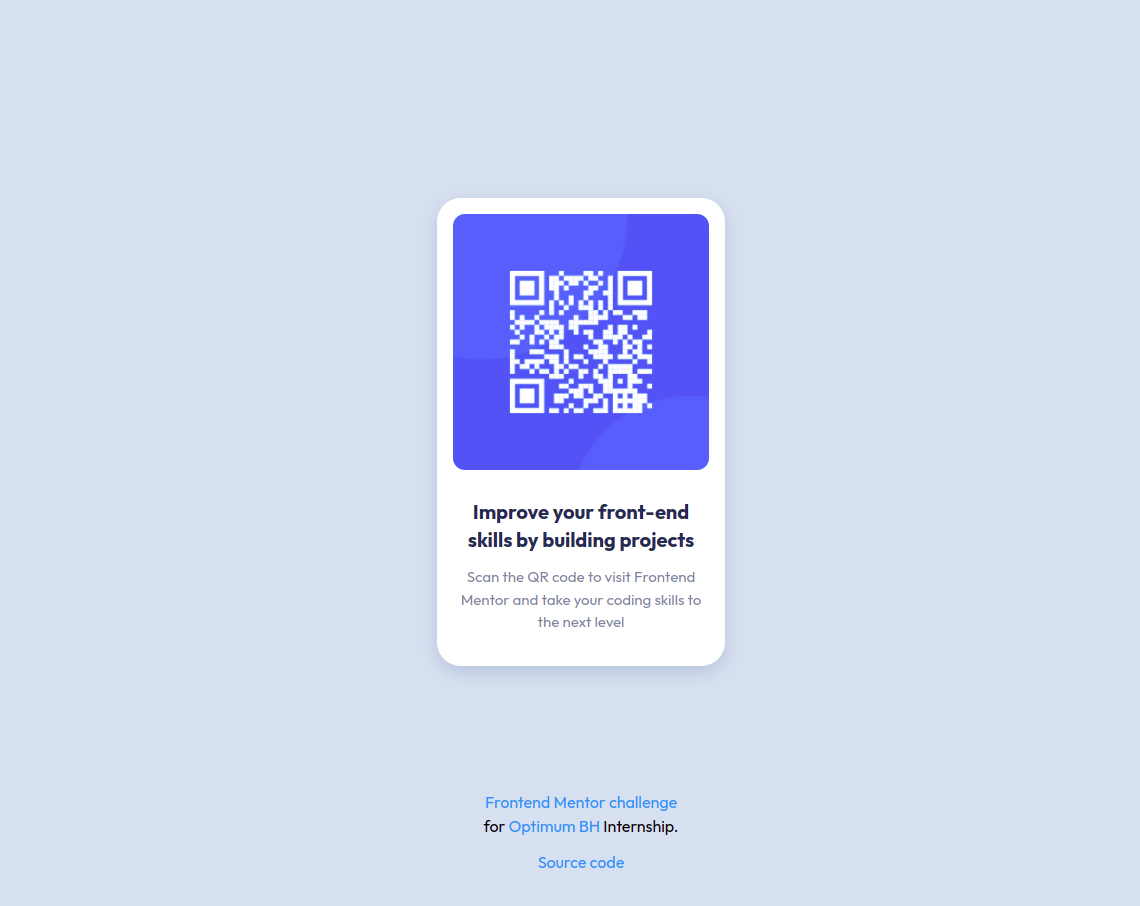
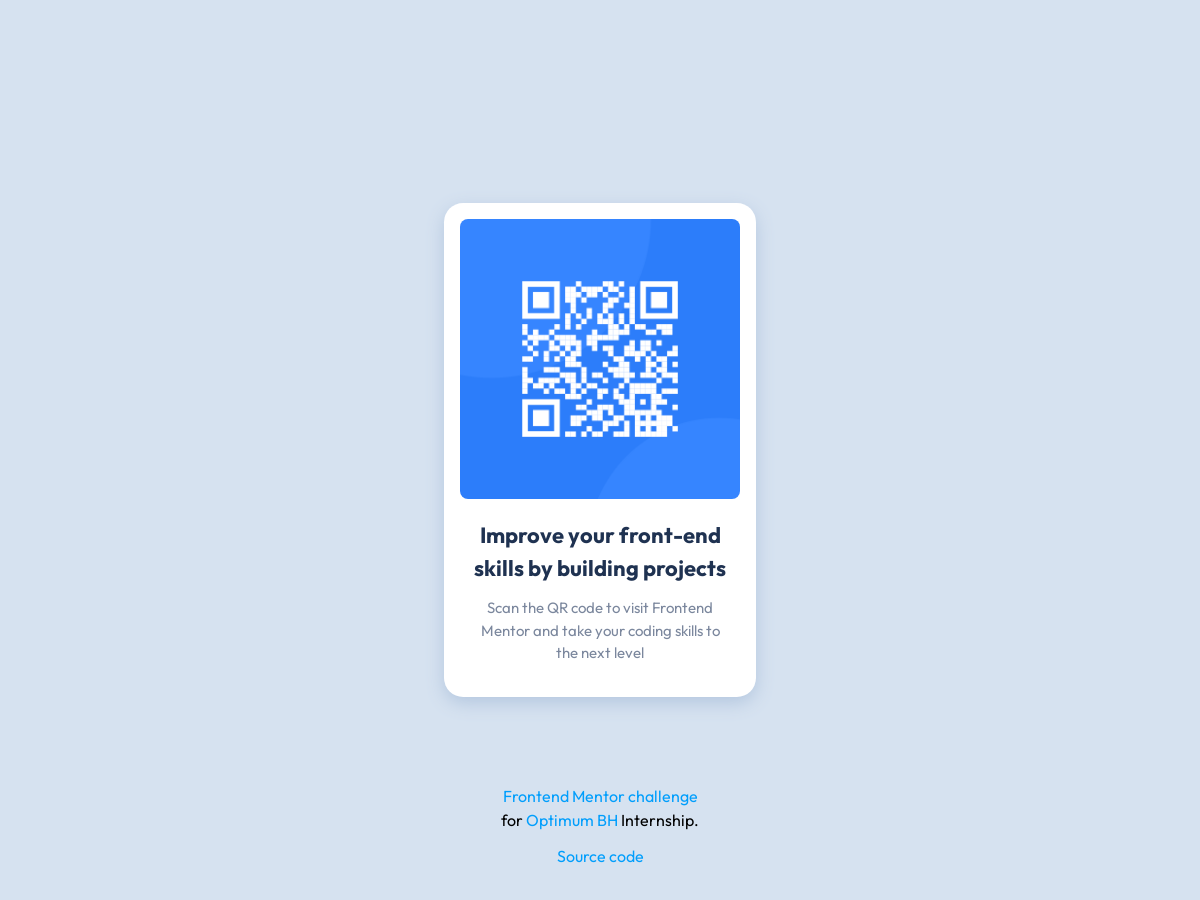
Minor css improvements

Changed region(s): [[0.3684, 0.2178, 0.6447, 0.7778], [0.3991, 0.8711, 0.5833, 0.9644]]

diff --git a/challenges/qr_code_component/index.html b/challenges/qr_code_component/index.html
@@ -41,11 +41,13 @@
       class="bg-preview-bg flex h-[100vh] w-full flex-col items-center justify-center text-center"
     >
       <div class="qr-card">
-        <div class="mobile:w-64 relative w-72 overflow-hidden rounded-xl">
+        <div class="relative w-[280px] overflow-hidden rounded-lg">
           <img src="./images/image-qr-code.png" alt="QR Code" />
         </div>
         <div class="mt-4 w-64">
-          <h2 class="text-title-text my-3 px-1 text-center text-xl font-bold">
+          <h2
+            class="text-title-text mt-1 mb-3 px-0 text-center text-[22px] font-bold"
+          >
             Improve your front-end skills by building projects
           </h2>
 
@@ -56,7 +58,7 @@
         </div>
       </div>
 
-      <footer class="absolute bottom-8">
+      <footer class="tablet:opacity-100 absolute bottom-8 opacity-0">
         <div>
           <a
             class="text-optimum-blue hover:text-optimum-darkblue"

diff --git a/challenges/qr_code_component/tailwind.config.js b/challenges/qr_code_component/tailwind.config.js
@@ -18,9 +18,12 @@ module.exports = {
         outfit: ['Outfit', ...defaultTheme.fontFamily.sans],
       },
       screens: {
-        mobile: '375px',
+        mobile: '376px',
+        // => @media (min-width: 375px) { ... }
+        tablet: '768px',
+        // => @media (min-width: 768px) { ... }
         desktop: '1440px',
-        // => @media (min-width: 360px) { ... }
+        // => @media (min-width: 1440px) { ... }
       },
     },
   },

diff --git a/challenges/qr_code_component/style.css b/challenges/qr_code_component/style.css
@@ -4,7 +4,7 @@
 
 @layer components {
   .qr-card {
-    @apply flex w-max flex-col items-center justify-center rounded-3xl bg-white p-4;
+    @apply flex w-max flex-col items-center justify-center rounded-[1.2rem] bg-white p-4;
     box-shadow: 0 6px 18px 0 #b4c7df;
   }
 }
